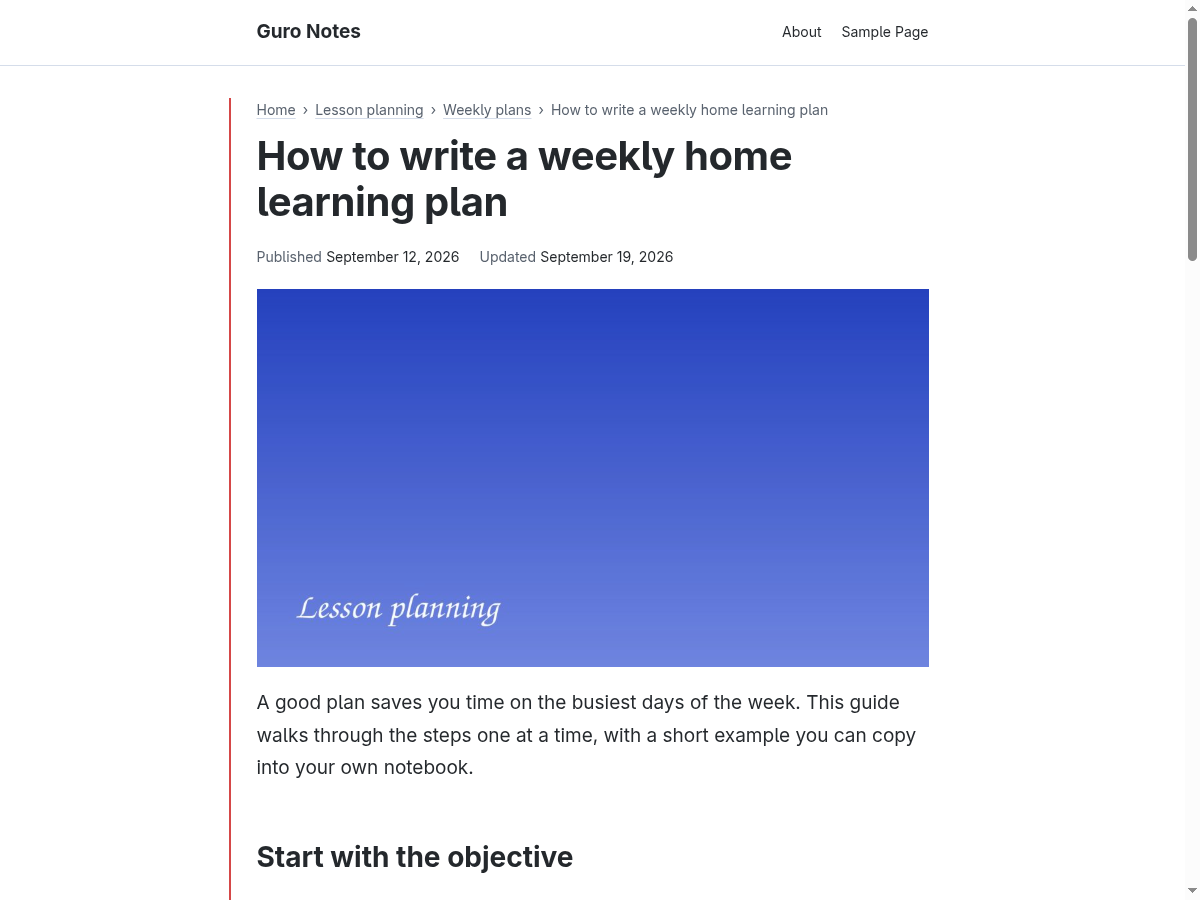
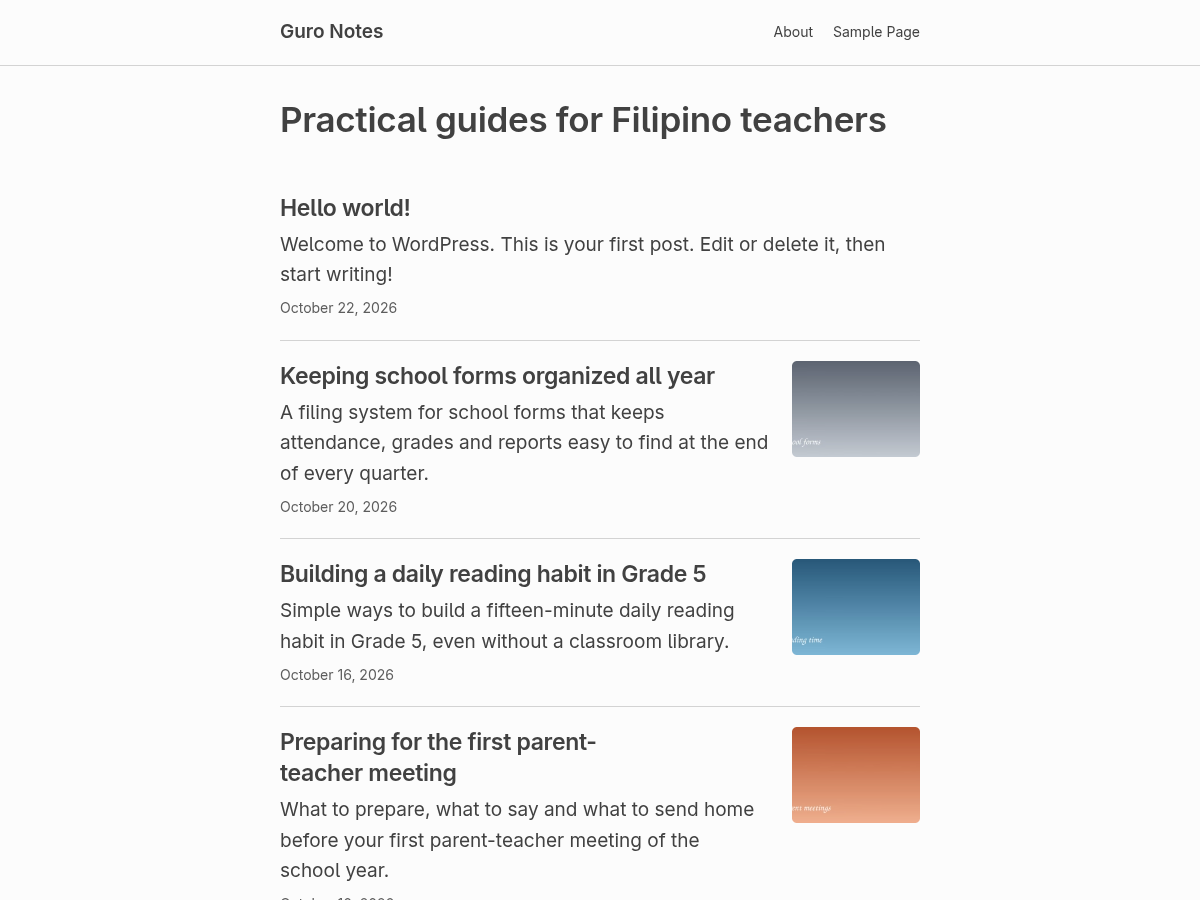
Tala Blog 1.2.0: minimalist look, named landmarks, JSON-safe pattern text
- Near-black text (#3f3f3f) on a near-white page (#fcfcfc), with black
  for emphasis; dark mode is the same look inverted (#e3e3e3 on
  #121212). The pad-paper margin line and the chalkboard colours are
  gone. Palette colours are named by their role; the slugs stay, with
  "margin" replaced by "wash".
- A 640px column, line height 1.6, semibold headings on a calmer
  scale, fine dotted link underlines in the text colour, soft boxes for
  quotes and code, and table header rows and stripes that work in both
  colour schemes.
- Accessibility:
  - the Search block gets ariaLabel support, and the in-page and footer
    search forms are named "Articles" and "Site";
  - the header menu is named "Primary";
  - form fields keep 3:1 contrast and secondary text 6:1 (#5d5d5d).
- Reading comfort:
  - long words wrap instead of widening a zoomed page;
  - text-wrap: pretty;
  - anchors leave room above their target;
  - preformatted text scrolls;
  - template parts take no root block gap;
  - a crossfade between pages, only without reduced motion.
- Patterns print translated block attributes through
  tala_blog_block_text() (core's serialize_block_attributes()), so a
  translation can't break block JSON. PHPCS knows it as an escaping
  function, and the theme validator reports esc_attr*() inside block
  JSON. The exported queryId is gone.
- A new screenshot.

diff --git a/tala-blog/assets/theme.css b/tala-blog/assets/theme.css
@@ -1,10 +1,10 @@
-/* Tala Blog. Light: pad paper (white, ballpen blue, ruled lines, red margin). Dark: chalkboard. */
+/* Tala Blog: a quiet reading page. Light: near-white page, near-black text. Dark: the same, inverted. */
 
 :root {
 	color-scheme: light dark;
 }
 
-/* Dark mode: the chalkboard palette lives in theme.json (settings.custom.dark). */
+/* Dark mode follows the reader's system setting; its colours live in theme.json (settings.custom.dark). */
 @media (prefers-color-scheme: dark) {
 
 	:root {
@@ -13,13 +13,33 @@
 		--wp--preset--color--muted: var(--wp--custom--dark--muted);
 		--wp--preset--color--accent: var(--wp--custom--dark--accent);
 		--wp--preset--color--rule: var(--wp--custom--dark--rule);
-		--wp--preset--color--margin: var(--wp--custom--dark--margin);
+		--wp--preset--color--wash: var(--wp--custom--dark--wash);
 	}
 }
 
+/* Page to page: a short crossfade where the browser supports it, unless the reader asks for less motion. */
+@media (prefers-reduced-motion: no-preference) {
+
+	@view-transition {
+		navigation: auto;
+	}
+}
+
+/* Long words and web addresses wrap instead of widening the page when it's zoomed (WCAG reflow). */
+body {
+	overflow-wrap: break-word;
+}
+
+/* Fewer lonely last words, where the browser supports it. */
+:where(h1, h2, h3, h4, h5, h6, p, blockquote, figcaption, caption) {
+	text-wrap: pretty;
+}
+
+/* Links: a fine dotted underline in the text colour; full black (white in dark mode) on hover. */
 a {
+	text-decoration-style: dotted;
 	text-decoration-thickness: 1px;
-	text-underline-offset: 0.18em;
+	text-underline-offset: 0.15em;
 }
 
 :where(a, button, input, select, textarea, summary):focus-visible {
@@ -27,7 +47,32 @@ a {
 	outline-offset: 2px;
 }
 
-/* Header and footer */
+/* A jump to #comments or a heading leaves a little room above the target. */
+:target {
+	scroll-margin-block-start: var(--wp--preset--spacing--40);
+}
+
+/* Form fields: borders and placeholders keep at least 3:1 against the page (WCAG 1.4.11). */
+.wp-block-search__input,
+.wp-block-post-comments-form input:not([type="submit"]):not([type="checkbox"]),
+.wp-block-post-comments-form textarea {
+	border: 1px solid var(--wp--preset--color--muted);
+	border-radius: 5px;
+	background-color: var(--wp--preset--color--base);
+	color: var(--wp--preset--color--contrast);
+}
+
+.wp-block-search__input::placeholder {
+	color: var(--wp--preset--color--muted);
+	opacity: 1;
+}
+
+/* Header and footer: their own padding sets the space around them, not the page's block gap. */
+
+header.wp-block-template-part,
+footer.wp-block-template-part {
+	margin-block-start: 0;
+}
 
 .tala-header {
 	padding-block: var(--wp--preset--spacing--30);
@@ -57,6 +102,7 @@ a {
 
 .tala-nav a:hover,
 .tala-header .wp-block-navigation a:hover {
+	color: var(--wp--preset--color--accent);
 	text-decoration: underline;
 }
 
@@ -76,27 +122,7 @@ a {
 	padding-block: var(--wp--preset--spacing--20) 0;
 }
 
-/* The article sheet: a red margin line down the left, like Filipino pad paper. */
-
-.tala-paper {
-	position: relative;
-}
-
-.tala-paper::before {
-	content: "";
-	position: absolute;
-	inset-block: 0;
-	inset-inline-start: -0.875rem;
-	width: 2px;
-	background: var(--wp--preset--color--margin);
-}
-
-@media (min-width: 48em) {
-
-	.tala-paper::before {
-		inset-inline-start: -1.75rem;
-	}
-}
+/* The article */
 
 .tala-paper > .wp-block-post-title {
 	margin-block-start: var(--wp--preset--spacing--20);
@@ -140,13 +166,32 @@ a {
 	margin-block-start: 0.35em;
 }
 
+/* Inline code wraps anywhere; preformatted text keeps its lines and scrolls sideways instead. */
+.wp-block-post-content :where(code) {
+	overflow-wrap: anywhere;
+}
+
+:where(pre) {
+	overflow-x: auto;
+}
+
+/* Tables: hairlines in the line colour and a washed header row, in both colour schemes. */
 .wp-block-post-content :where(table) td,
 .wp-block-post-content :where(table) th {
 	border-color: var(--wp--preset--color--rule);
 }
 
-.wp-block-post-content :where(pre, code) {
-	overflow-wrap: anywhere;
+.wp-block-table thead {
+	border-bottom: 1px solid var(--wp--preset--color--rule);
+	background-color: var(--wp--preset--color--wash);
+}
+
+.wp-block-table.is-style-stripes tbody tr:nth-child(odd) {
+	background-color: var(--wp--preset--color--wash);
+}
+
+.wp-block-table.is-style-stripes {
+	border-bottom-color: var(--wp--preset--color--rule);
 }
 
 /* Author box under the article */
@@ -175,7 +220,7 @@ a {
 
 .tala-author .wp-block-post-author__name {
 	margin: 0;
-	font-weight: 700;
+	font-weight: 600;
 }
 
 .tala-author .wp-block-post-author__bio {
@@ -229,7 +274,7 @@ a {
 }
 
 .tala-comment-meta .wp-block-comment-author-name {
-	font-weight: 700;
+	font-weight: 600;
 }
 
 .tala-comment-meta .wp-block-comment-date,
@@ -237,7 +282,7 @@ a {
 	color: var(--wp--preset--color--muted);
 }
 
-/* Post lists: one entry per ruled line */
+/* Post lists: one entry per line, divided by hairlines */
 
 .tala-intro {
 	padding-block-end: var(--wp--preset--spacing--20);
@@ -284,7 +329,7 @@ a {
 }
 
 .tala-list-thumb img {
-	border-radius: 3px;
+	border-radius: 5px;
 }
 
 @media (min-width: 40em) {
@@ -307,6 +352,7 @@ a {
 }
 
 .tala-list .wp-block-post:hover .wp-block-post-title a {
+	color: var(--wp--preset--color--accent);
 	text-decoration: underline;
 }
 
@@ -329,6 +375,7 @@ a {
 		--wp--preset--color--muted: #333;
 		--wp--preset--color--accent: #000;
 		--wp--preset--color--rule: #999;
+		--wp--preset--color--wash: #f2f2f2;
 	}
 
 	body {
@@ -348,10 +395,6 @@ a {
 
 	.tala-main {
 		padding: 0;
-	}
-
-	.tala-paper::before {
-		display: none;
 	}
 
 	.tala-paper .wp-block-post-featured-image {

diff --git a/tala-blog/style.css b/tala-blog/style.css
@@ -2,8 +2,8 @@
 Theme Name: Tala Blog
 Author: Mark Anthony Llego
 Author URI: https://edventure.com.ph
-Description: A minimal, fast blog theme for long reads on phones. Pad-paper look in light mode, chalkboard in dark mode (follows the reader's device), system fonts only, labelled published and updated dates, and an author box with biography under every article. Pairs with the Tala SEO plugin for breadcrumbs and structured data.
-Version: 1.1.2
+Description: A minimal, fast blog theme for long reads on phones: near-black text on a near-white page, with the same quiet look inverted in dark mode (it follows the reader's device). System fonts only, labelled published and updated dates, and an author box with biography under every article. Pairs with the Tala SEO plugin for breadcrumbs and structured data.
+Version: 1.2.0
 Requires at least: 6.6
 Tested up to: 7.1
 Requires PHP: 8.1

diff --git a/tala-blog/functions.php b/tala-blog/functions.php
@@ -18,6 +18,37 @@ function tala_blog_setup(): void {
 	add_editor_style( 'assets/theme.css' );
 }
 
+/**
+ * A translated string for a block attribute in a pattern: a JSON string, quotes included. Core's
+ * serialize_block_attributes() escapes it as the block editor does, so a translation with a quote,
+ * backslash, line break or "--" can't break the block markup (esc_attr() only makes text HTML-safe,
+ * and the block parser reads JSON).
+ *
+ * @param string $text Translated text.
+ * @return string The text as a JSON string, for example "Search".
+ */
+function tala_blog_block_text( $text ) {
+	return substr( serialize_block_attributes( array( 't' => (string) $text ) ), 5, -1 );
+}
+
+add_filter( 'block_type_metadata', 'tala_blog_search_aria_label' );
+
+/**
+ * Lets the Search block take a name. Each Search block is a search landmark, and the search results
+ * and 404 pages have two (the page's and the footer's): landmarks of the same kind need different
+ * names, which the patterns set. The block has no "ariaLabel" support of its own.
+ *
+ * @param array<string, mixed> $metadata Block type metadata.
+ * @return array<string, mixed>
+ */
+function tala_blog_search_aria_label( $metadata ) {
+	if ( isset( $metadata['name'] ) && 'core/search' === $metadata['name'] ) {
+		$metadata['supports']              = (array) ( $metadata['supports'] ?? array() );
+		$metadata['supports']['ariaLabel'] = true;
+	}
+	return $metadata;
+}
+
 // Don't fetch pattern directory patterns into the editor.
 add_filter( 'should_load_remote_block_patterns', '__return_false' );
 

diff --git a/tala-blog/patterns/post-list.php b/tala-blog/patterns/post-list.php
@@ -10,7 +10,7 @@
  */
 
 ?>
-<!-- wp:query {"queryId":1,"query":{"inherit":true},"className":"tala-list"} -->
+<!-- wp:query {"query":{"inherit":true},"className":"tala-list"} -->
 <div class="wp-block-query tala-list"><!-- wp:post-template -->
 <!-- wp:group {"className":"tala-list-item","layout":{"type":"flex","flexWrap":"nowrap","verticalAlignment":"top"}} -->
 <div class="wp-block-group tala-list-item"><!-- wp:group {"className":"tala-list-text","layout":{"type":"default"}} -->
@@ -26,11 +26,11 @@
 <!-- /wp:post-template -->
 
 <!-- wp:query-pagination {"layout":{"type":"flex","justifyContent":"space-between"}} -->
-<!-- wp:query-pagination-previous {"label":"<?php echo esc_attr__( 'Newer articles', 'tala-blog' ); ?>"} /-->
+<!-- wp:query-pagination-previous {"label":<?php echo tala_blog_block_text( __( 'Newer articles', 'tala-blog' ) ); ?>} /-->
 
 <!-- wp:query-pagination-numbers /-->
 
-<!-- wp:query-pagination-next {"label":"<?php echo esc_attr__( 'Older articles', 'tala-blog' ); ?>"} /-->
+<!-- wp:query-pagination-next {"label":<?php echo tala_blog_block_text( __( 'Older articles', 'tala-blog' ) ); ?>} /-->
 <!-- /wp:query-pagination -->
 
 <!-- wp:query-no-results -->

diff --git a/tala-blog/patterns/post-footer.php b/tala-blog/patterns/post-footer.php
@@ -10,10 +10,10 @@
  */
 
 ?>
-<!-- wp:post-author {"avatarSize":64,"showBio":true,"byline":"<?php echo esc_attr__( 'Written by', 'tala-blog' ); ?>","isLink":true,"className":"tala-author"} /-->
+<!-- wp:post-author {"avatarSize":64,"showBio":true,"byline":<?php echo tala_blog_block_text( __( 'Written by', 'tala-blog' ) ); ?>,"isLink":true,"className":"tala-author"} /-->
 
 <!-- wp:group {"className":"tala-post-nav","layout":{"type":"flex","flexWrap":"wrap","justifyContent":"space-between"}} -->
-<div class="wp-block-group tala-post-nav"><!-- wp:post-navigation-link {"type":"previous","label":"<?php echo esc_attr__( 'Previous article', 'tala-blog' ); ?>","showTitle":true} /-->
+<div class="wp-block-group tala-post-nav"><!-- wp:post-navigation-link {"type":"previous","label":<?php echo tala_blog_block_text( __( 'Previous article', 'tala-blog' ) ); ?>,"showTitle":true} /-->
 
-<!-- wp:post-navigation-link {"label":"<?php echo esc_attr__( 'Next article', 'tala-blog' ); ?>","showTitle":true} /--></div>
+<!-- wp:post-navigation-link {"label":<?php echo tala_blog_block_text( __( 'Next article', 'tala-blog' ) ); ?>,"showTitle":true} /--></div>
 <!-- /wp:group -->

diff --git a/tala-blog/patterns/search.php b/tala-blog/patterns/search.php
@@ -4,10 +4,11 @@
  * Slug: tala-blog/search
  * Categories: text
  * Inserter: no
- * Description: The search form in the footer, on search results and on the 404 page.
+ * Description: The search form on search results and on the 404 page. The footer has its own, named
+ * differently, so the two search landmarks on those pages can be told apart.
  *
  * @package TalaBlog
  */
 
 ?>
-<!-- wp:search {"label":"<?php echo esc_attr__( 'Search', 'tala-blog' ); ?>","showLabel":false,"placeholder":"<?php echo esc_attr__( 'Search articles', 'tala-blog' ); ?>","buttonText":"<?php echo esc_attr_x( 'Search', 'search button', 'tala-blog' ); ?>"} /-->
+<!-- wp:search {"ariaLabel":<?php echo tala_blog_block_text( _x( 'Articles', 'name of the search form in the page', 'tala-blog' ) ); ?>,"label":<?php echo tala_blog_block_text( __( 'Search', 'tala-blog' ) ); ?>,"showLabel":false,"placeholder":<?php echo tala_blog_block_text( __( 'Search articles', 'tala-blog' ) ); ?>,"buttonText":<?php echo tala_blog_block_text( _x( 'Search', 'search button', 'tala-blog' ) ); ?>} /-->

diff --git a/tala-blog/patterns/header.php b/tala-blog/patterns/header.php
@@ -15,8 +15,8 @@
 <div class="wp-block-group tala-header"><!-- wp:group {"layout":{"type":"flex","flexWrap":"wrap","justifyContent":"space-between"}} -->
 <div class="wp-block-group"><!-- wp:site-title {"level":0} /-->
 
-<!-- wp:group {"tagName":"nav","ariaLabel":"<?php echo esc_attr_x( 'Main', 'header menu label for screen readers', 'tala-blog' ); ?>","className":"tala-nav","layout":{"type":"default"}} -->
-<nav class="wp-block-group tala-nav" aria-label="<?php echo esc_attr_x( 'Main', 'header menu label for screen readers', 'tala-blog' ); ?>"><!-- wp:page-list /--></nav>
+<!-- wp:group {"tagName":"nav","ariaLabel":<?php echo tala_blog_block_text( _x( 'Primary', 'header menu label for screen readers', 'tala-blog' ) ); ?>,"className":"tala-nav","layout":{"type":"default"}} -->
+<nav class="wp-block-group tala-nav" aria-label="<?php echo esc_attr_x( 'Primary', 'header menu label for screen readers', 'tala-blog' ); ?>"><!-- wp:page-list /--></nav>
 <!-- /wp:group --></div>
 <!-- /wp:group --></div>
 <!-- /wp:group -->

diff --git a/tala-blog/patterns/post-terms.php b/tala-blog/patterns/post-terms.php
@@ -11,7 +11,7 @@
 
 ?>
 <!-- wp:group {"className":"tala-terms","layout":{"type":"default"}} -->
-<div class="wp-block-group tala-terms"><!-- wp:post-terms {"term":"category","prefix":"<?php /* translators: Shown before the article's categories; keep the space at the end. */ echo esc_attr__( 'Filed under: ', 'tala-blog' ); ?>"} /-->
+<div class="wp-block-group tala-terms"><!-- wp:post-terms {"term":"category","prefix":<?php /* translators: Shown before the article's categories; keep the space at the end. */ echo tala_blog_block_text( __( 'Filed under: ', 'tala-blog' ) ); ?>} /-->
 
-<!-- wp:post-terms {"term":"post_tag","prefix":"<?php /* translators: Shown before the article's tags; keep the space at the end. */ echo esc_attr__( 'Tags: ', 'tala-blog' ); ?>"} /--></div>
+<!-- wp:post-terms {"term":"post_tag","prefix":<?php /* translators: Shown before the article's tags; keep the space at the end. */ echo tala_blog_block_text( __( 'Tags: ', 'tala-blog' ) ); ?>} /--></div>
 <!-- /wp:group -->

diff --git a/tala-blog/patterns/footer.php b/tala-blog/patterns/footer.php
@@ -12,7 +12,7 @@
 
 ?>
 <!-- wp:group {"className":"tala-footer","layout":{"type":"constrained"}} -->
-<div class="wp-block-group tala-footer"><!-- wp:pattern {"slug":"tala-blog/search"} /-->
+<div class="wp-block-group tala-footer"><!-- wp:search {"ariaLabel":<?php echo tala_blog_block_text( _x( 'Site', 'name of the search form in the footer', 'tala-blog' ) ); ?>,"label":<?php echo tala_blog_block_text( __( 'Search', 'tala-blog' ) ); ?>,"showLabel":false,"placeholder":<?php echo tala_blog_block_text( __( 'Search articles', 'tala-blog' ) ); ?>,"buttonText":<?php echo tala_blog_block_text( _x( 'Search', 'search button', 'tala-blog' ) ); ?>} /-->
 
 <!-- wp:group {"layout":{"type":"flex","flexWrap":"wrap","justifyContent":"space-between"}} -->
 <div class="wp-block-group"><!-- wp:site-title {"level":0} /-->

diff --git a/README.md b/README.md
@@ -4,7 +4,7 @@ A minimal, fast blog setup for WordPress with the block editor (Gutenberg). No p
 
 | Folder | What it is |
 |---|---|
-| `tala-blog/` | Block theme. Pad-paper look, automatic chalkboard dark mode, system fonts (no downloads), labelled Published/Updated dates, author box with bio under every article, breadcrumbs, "Filed under" categories and tags, article lists with thumbnails and numbered pages, dated comments, print styles. Translation-ready and accessible (WCAG 2.2 AA checks pass in both colour schemes). |
+| `tala-blog/` | Block theme. Minimalist: near-black text on a near-white page, the same inverted in automatic dark mode, system fonts (no downloads), labelled Published/Updated dates, author box with bio under every article, breadcrumbs, "Filed under" categories and tags, article lists with thumbnails and numbered pages, dated comments, print styles. Translation-ready and accessible (WCAG 2.2 AA checks pass in both colour schemes). |
 | `tala-seo/` | SEO plugin. Titles, meta descriptions, canonicals, robots rules, Open Graph, JSON-LD, sitemap and robots.txt tuning, redirects for moved pages and categories, and a publish check. |
 | `dev/` | Demo content and a WordPress Playground blueprint for local testing (not deployed). |
 | `build.sh` | Packages both as zips in `dist/`. |
